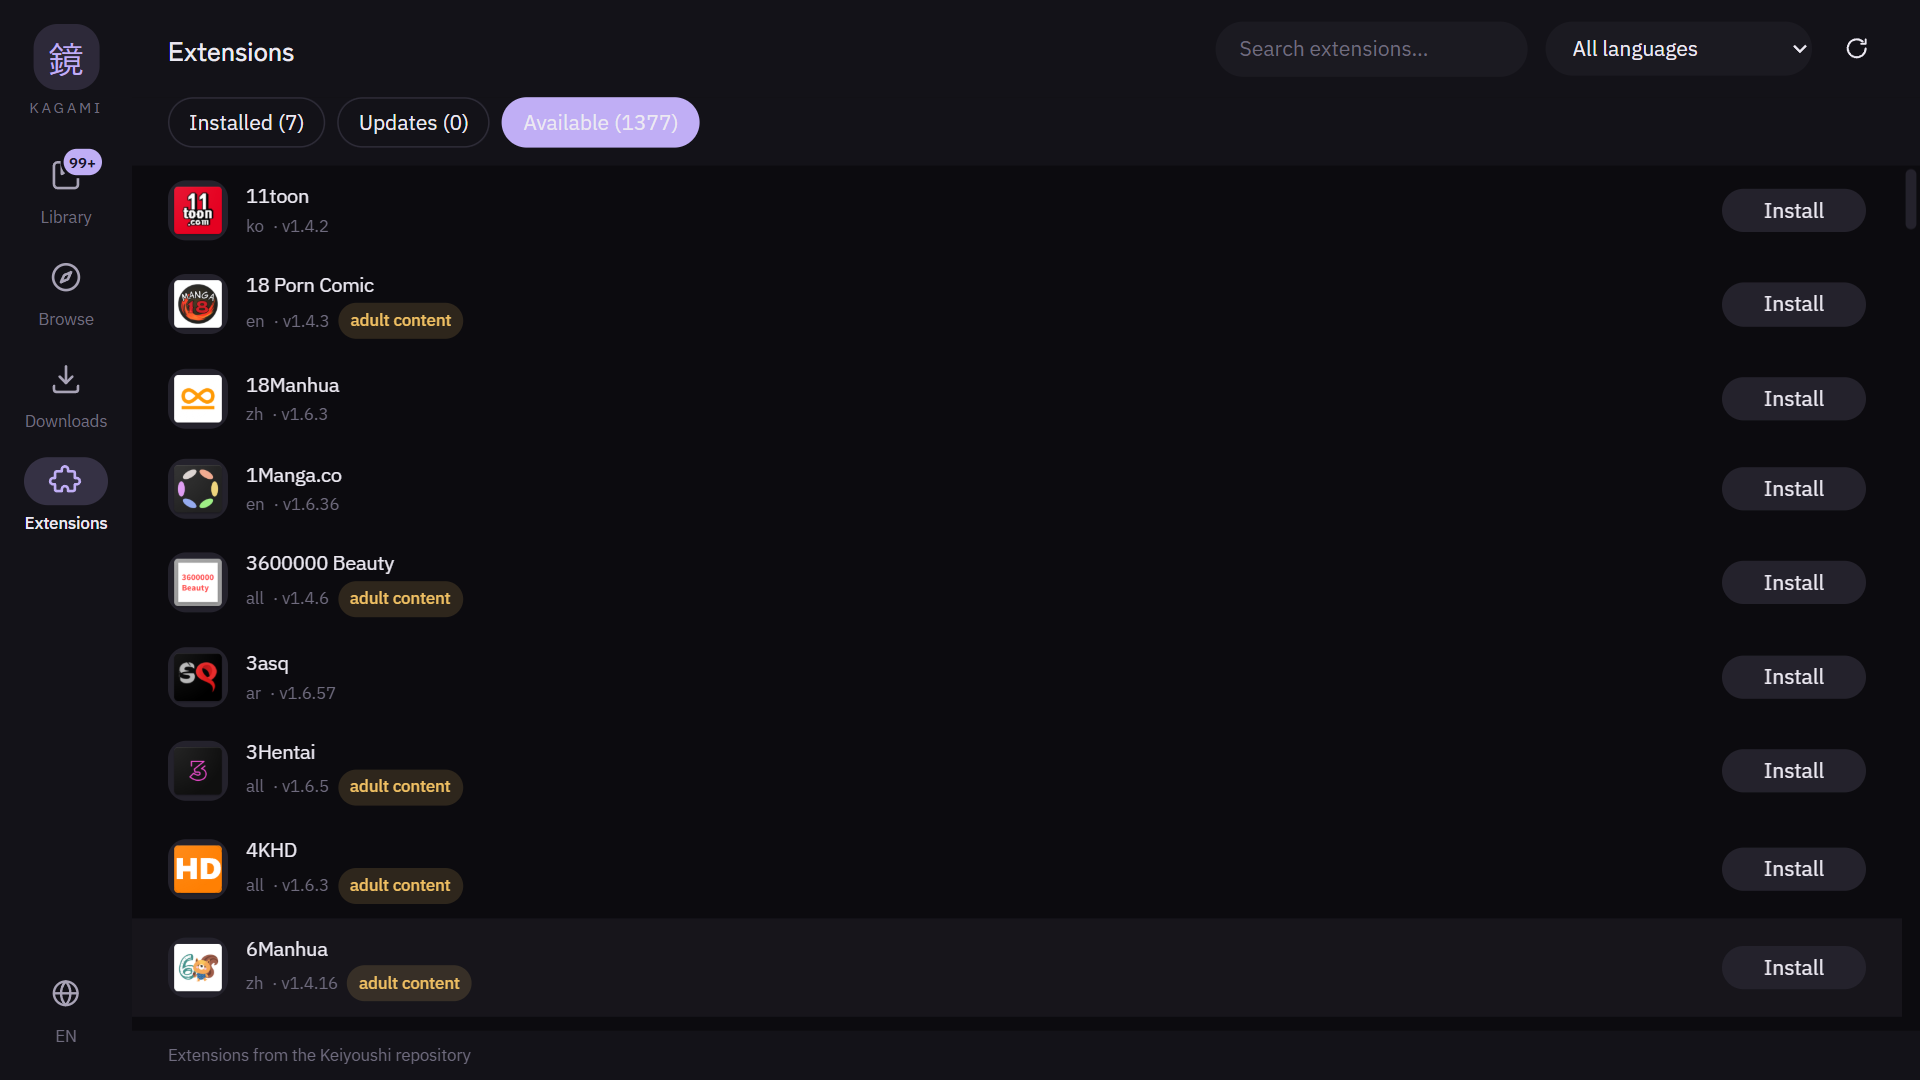
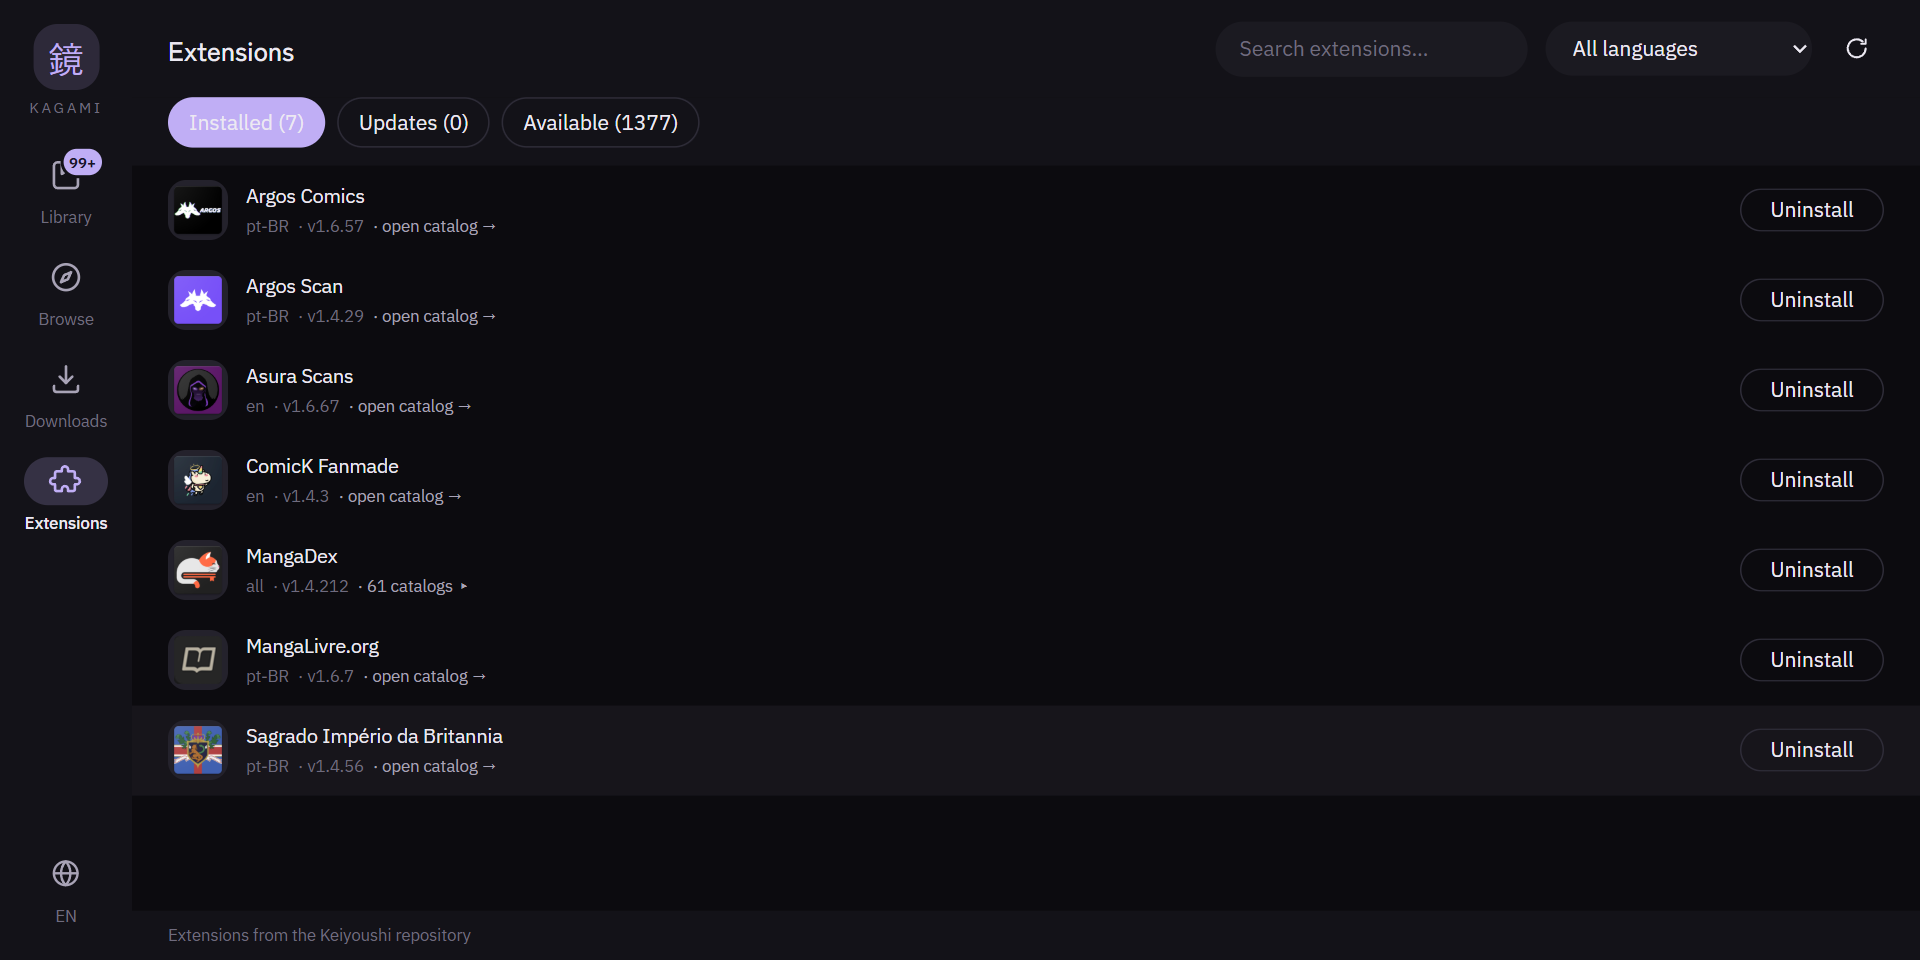
Show installed sources on the page, not the full catalogue
The first screenshot a visitor met was the "available" tab, which is 1377
extensions in alphabetical order -- so the page opened on a column of adult
site names. The installed tab shows real sources, and it is the one the
caption was describing anyway: MangaDex sitting there with its 61 catalogues.

diff --git a/docs/index.html b/docs/index.html
@@ -329,7 +329,7 @@ Suwayomi-Server (bundled JRE) → Mihon .apk extensions</pre>
 
     <div class="shots">
       <figure>
-        <img src="shots/extensions.png" alt="The Extensions screen, listing installed sources with their language and version, and tabs for installed, updates and available extensions." loading="lazy" width="1920" height="1080">
+        <img src="shots/extensions.png" alt="The Extensions screen, listing installed sources with their language and version, and tabs for installed, updates and available extensions." loading="lazy" width="1920" height="960">
         <figcaption>
           <b>Extensions.</b> The repository is registered for you — there is no URL
           to paste. An extension can carry many sources: MangaDex alone exposes
